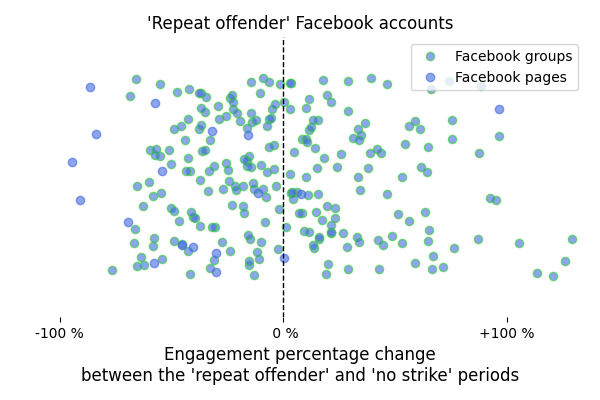
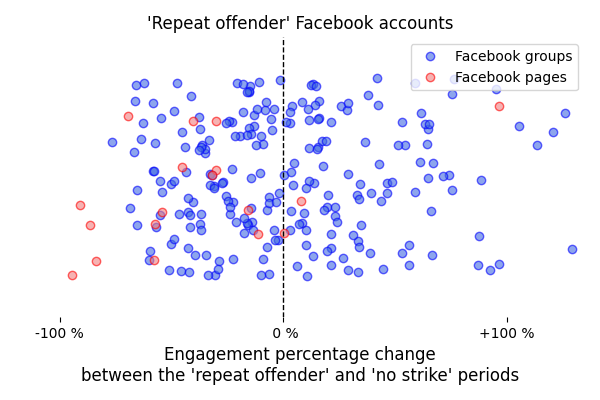
rechange color for clarity

diff --git a/code/create_section_1_figures.py b/code/create_section_1_figures.py
@@ -250,11 +250,11 @@ def plot_repeat_vs_free_percentage_change(posts_df, posts_url_df, url_df):
 
     plt.plot(sumup_groups_df['percentage_change_engagament'].values, 
              list(np.random.random(len(sumup_groups_df))), 
-             'o', markerfacecolor='royalblue', markeredgecolor='limegreen', alpha=0.6,
+             'o', markerfacecolor='royalblue', markeredgecolor='blue', alpha=0.6,
              label='Facebook groups')
     plt.plot(sumup_pages_df['percentage_change_engagament'].values, 
              list(np.random.random(len(sumup_pages_df))), 
-             'o', markerfacecolor='royalblue', markeredgecolor='royalblue', alpha=0.6,
+             'o', markerfacecolor='lightcoral', markeredgecolor='red', alpha=0.6,
              label='Facebook pages')
     plt.legend(loc='upper right')
 
@@ -331,11 +331,11 @@ def plot_repeat_june_drop_percentage_change(posts_df):
 
     plt.plot(sumup_groups_df['percentage_change_engagament'].values, 
              list(np.random.random(len(sumup_groups_df))), 
-             'o', markerfacecolor='royalblue', markeredgecolor='limegreen', alpha=0.6,
+             'o', markerfacecolor='royalblue', markeredgecolor='blue', alpha=0.6,
              label='Facebook groups')
     plt.plot(sumup_pages_df['percentage_change_engagament'].values, 
              list(np.random.random(len(sumup_pages_df))), 
-             'o', markerfacecolor='royalblue', markeredgecolor='royalblue', alpha=0.6,
+             'o', markerfacecolor='lightcoral', markeredgecolor='red', alpha=0.6,
              label='Facebook pages')
     plt.legend(loc='upper right')
 

diff --git a/code/create_section_2_figures.py b/code/create_section_2_figures.py
@@ -126,14 +126,9 @@ def plot_engagement_percentage_change(posts_df, pages_df):
     random_y = list(np.random.random(len(sumup_df)))
     plt.plot(sumup_df['percentage_change_engagament'].values, 
              random_y, 
-             'o', markerfacecolor='royalblue', markeredgecolor='royalblue', alpha=0.6,
+             'o', markerfacecolor='royalblue', markeredgecolor='blue', alpha=0.6,
              label='Facebook pages')
     plt.legend(loc='upper right')
-
-    plt.plot(sumup_df[sumup_df['account_name']=='I Love Carbon Dioxide']['percentage_change_engagament'].values[0], 
-            random_y[34], 'o', markerfacecolor='none', markeredgecolor='black', alpha=0.4)
-    plt.text(sumup_df[sumup_df['account_name']=='I Love Carbon Dioxide']['percentage_change_engagament'].values[0], 
-            random_y[34] + 0.1, 'I Love Carbon Dioxide', ha='center', va='center')
 
     plt.axvline(x=0, color='k', linestyle='--', linewidth=1)
     plt.xticks([-100, 0, 100], 
